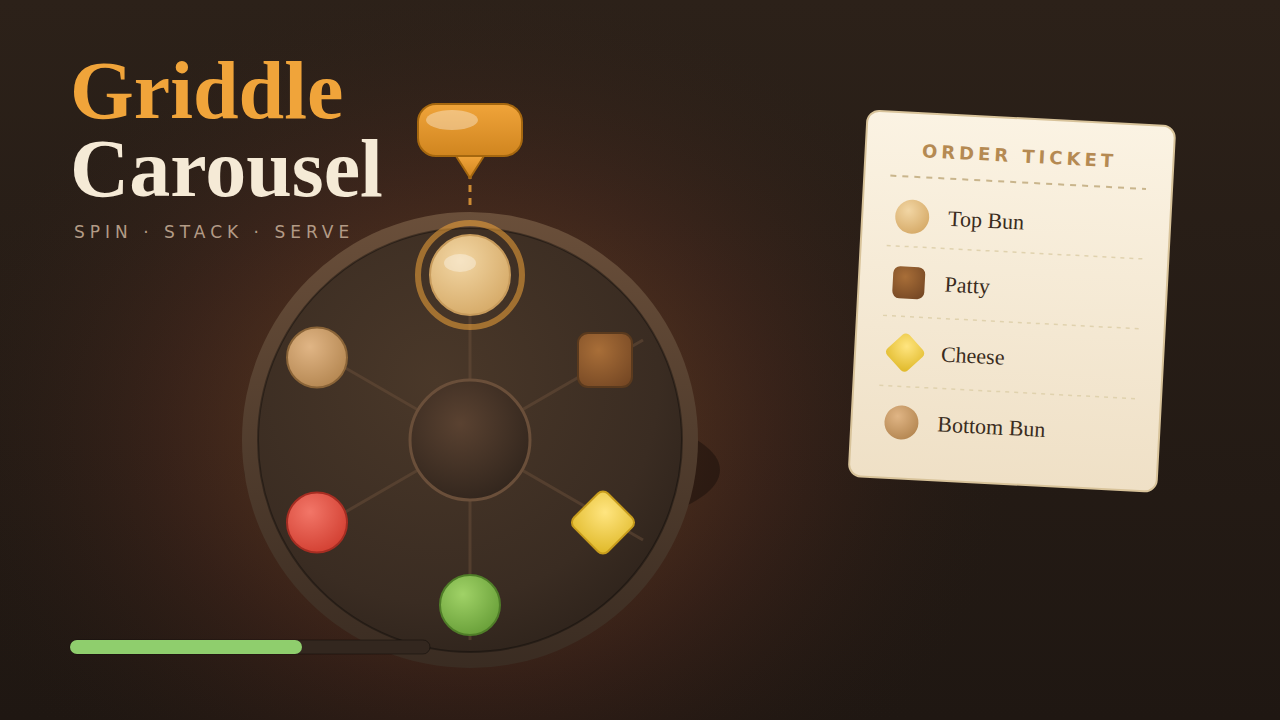
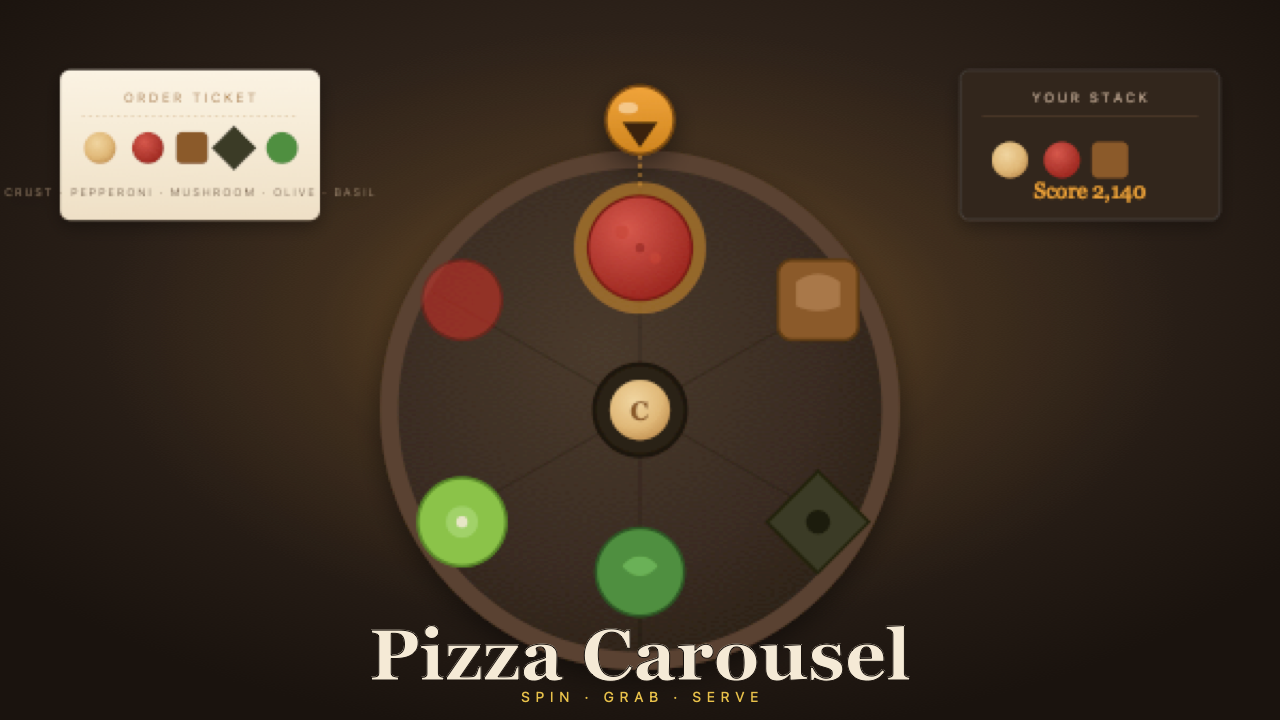
Regenerate Pizza Carousel's thumbnails for the pizza theme
The three promotional PNGs still depicted the original burger/griddle
concept from before the game's redesign and rename. New artwork shows
the topping wheel (crust at the fixed center hub, pepperoni, mushroom,
olive, and basil arranged around it, pepperoni glowing under the
pickup-clamp arrow), the order ticket, and the dish-stack tray, using
the same colors/shapes as index.html's actual INGREDIENTS palette --
titled "Pizza Carousel" in the existing Georgia display face.

Updated GAME.md's Assets note in place to describe the new artwork
and note it replaces the original burger/griddle illustration.

Via game-thumbnailer.

diff --git a/games/2026_07_24_pizza_carousel/GAME.md b/games/2026_07_24_pizza_carousel/GAME.md
@@ -120,7 +120,7 @@ Promotional thumbnails live in `thumbnails/` as three fixed 16:9 PNG sizes deriv
 | `thumb-medium.png` | 640 × 360 px | Grid/card layout tiles on a games gallery page (the default "cover image")        |
 | `thumb-large.png`  | 1280 × 720 px| Hero banner on the game's own page; also works directly as an Open Graph / Twitter Card social-preview image |
 
-These are original poster-style illustrations inspired by the game's concept and palette (espresso-brown room with a soft mustard glow, a shaded lazy-Susan ingredient wheel with a glowing aligned segment, the mustard pickup "clamp" above it, and a cream paper order ticket, titled in the Georgia display face) — not screenshots of actual gameplay.
+These are original poster-style illustrations inspired by the game's current pizza-themed concept and palette (espresso-brown backdrop with a soft mustard glow, a shaded topping wheel showing crust, pepperoni, mushroom, olive, basil and jalapeno arranged around a fixed crust hub, the mustard pickup "clamp" arrow glowing above the aligned topping, a cream paper order ticket, and a dish-tray stack, titled "Pizza Carousel" in the Georgia display face) — not screenshots of actual gameplay. Regenerated 2026-07-25 to replace the original burger/griddle-themed artwork after the game's redesign and rename from "Griddle Carousel" to "Pizza Carousel."
 
 ## Edit Log
 
